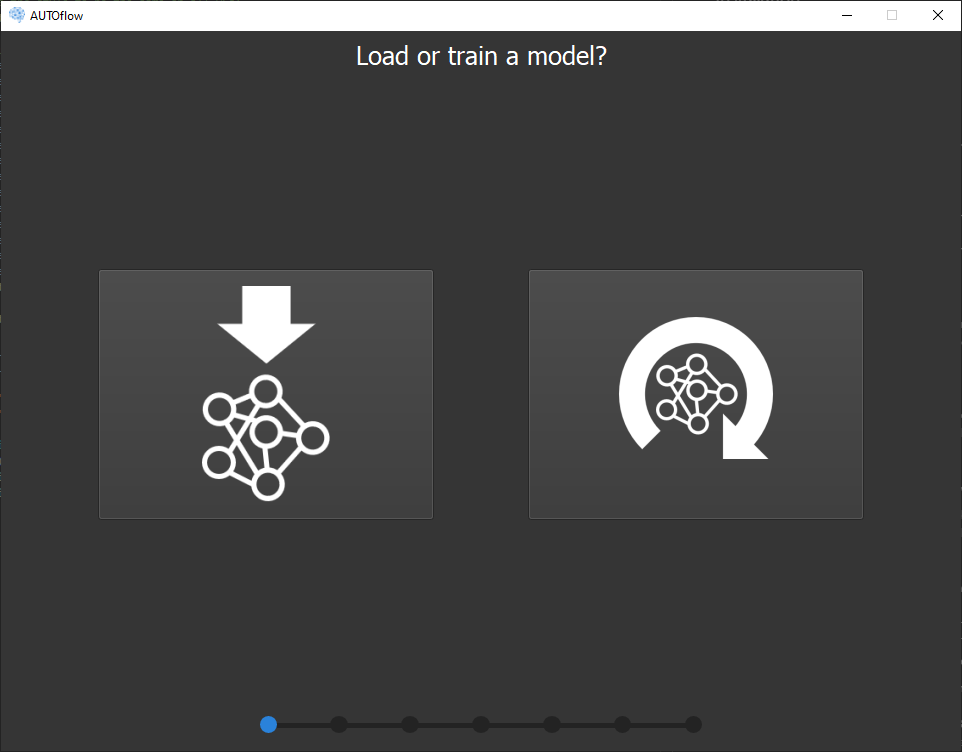
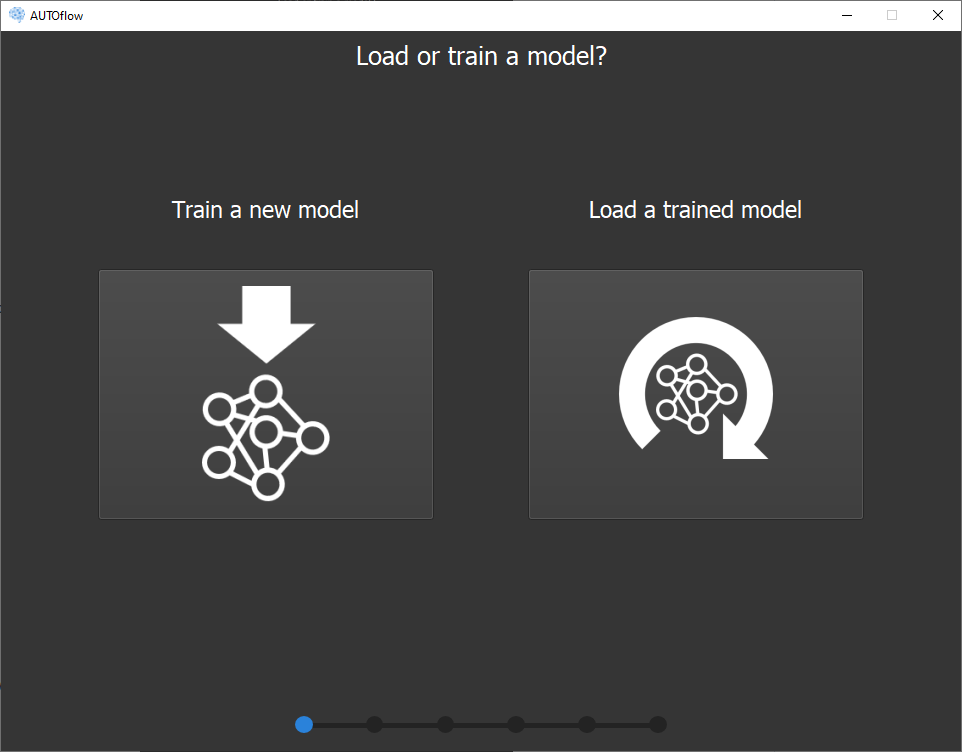
Update

diff --git a/src/AutoML/ImageClassifier.py b/src/AutoML/ImageClassifier.py
@@ -3,6 +3,7 @@
     SPDX-License-Identifier: Apache-2.0
 ============================================================================================================'''
 
+from random import shuffle
 import autokeras as ak
 import os
 import tensorflow as tf
@@ -24,14 +25,14 @@ def image_classifier(project_name, output_path, data_path, max_trials=10, max_ep
     if os.path.isfile(data_path):
         x_train, y_train, x_test, y_test = dataloader_autokeras(data_path, separator, decimal, csv_target_label,
                                                     img_height, img_width, num_channels)
-        clf.fit(x_train, y_train, epochs=max_epochs, validation_split=0.2,
+        clf.fit(x_train, y_train, epochs=max_epochs, validation_split=0.2, shuffle=True,
                 callbacks=[tf.keras.callbacks.EarlyStopping(monitor='val_loss', patience=5, restore_best_weights=True)])
         # Evaluate the best model with testing data.
         print(clf.evaluate(x_test, y_test))
     elif os.path.isdir(data_path):
         train_data, _, test_data, _ = dataloader_autokeras(data_path, separator, decimal, csv_target_label,
                                                 img_height, img_width, num_channels)
-        clf.fit(train_data, epochs=max_epochs, validation_split=0.2,
+        clf.fit(train_data, epochs=max_epochs, validation_split=0.2, shuffle=True,
                 callbacks=[tf.keras.callbacks.EarlyStopping(monitor='val_loss', patience=5, restore_best_weights=True)])
         # Evaluate the best model with testing data.
         print(clf.evaluate(test_data))

diff --git a/src/AutoML/Remove_cast_to_float32.py b/src/AutoML/Remove_cast_to_float32.py
@@ -1,18 +1,19 @@
 import sys
 
 # The file path of the environment used is passed to the function.
+# Example path: C:/Users/.../Anaconda3/envs/Autoflow
 def replace_string(path):
     # creating a variable and storing the text
     # that we want to search
-    search_text = "keras_layers.CastToFloat32()(input_node)"
+    search_text = 'keras_layers.CastToFloat32()(input_node)'
     
     # creating a variable and storing the text
     # that we want to add
-    replace_text = "input_node #" + search_text
+    replace_text = 'input_node #' + search_text
     
     # Opening our text file in read only
     # mode using the open() function
-    with open(path + "Lib/site-packages/autokeras/nodes.py", 'r') as f:
+    with open(path + '/Lib/site-packages/autokeras/nodes.py', 'r') as f:
     
         # Reading the content of the file
         # using the read() function and storing
@@ -29,15 +30,15 @@ def replace_string(path):
     
     # Opening our text file in write only
     # mode to write the replaced content
-    with open(path + "Lib/site-packages/autokeras/nodes.py", 'w') as f:
+    with open(path + '/Lib/site-packages/autokeras/nodes.py', 'w') as f:
     
         # Writing the replaced data in our
         # text file
         f.write(data)
     
     # Printing Text replaced
-    print("Text replaced")
+    print('Text replaced')
 
 
-if __name__ == "__main__":
+if __name__ == '__main__':
     replace_string(sys.argv[1])

diff --git a/src/GUIEvents/_DataloaderHelper.py b/src/GUIEvents/_DataloaderHelper.py
@@ -206,7 +206,7 @@ def dataloader_autokeras(data_loader_path, separator, decimal, csv_target_label,
                 X = np.array(df.iloc[:,:-1].values)[..., np.newaxis]
                 Y = np.array(df.iloc[:,-1].values).astype(np.int8)
 
-            x_train, x_test, y_train, y_test = train_test_split(X, Y, test_size=0.2)
+            x_train, x_test, y_train, y_test = train_test_split(X, Y, test_size=0.2, shuffle=True,)
 
         else:
             sys.path.append(os.path.dirname(data_loader_path))
@@ -234,6 +234,7 @@ def dataloader_autokeras(data_loader_path, separator, decimal, csv_target_label,
             image_size=(img_height, img_width),
             color_mode=color_mode,
             batch_size=128,
+            shuffle=True,
         )
 
         test_data = ak.image_dataset_from_directory(
@@ -244,6 +245,7 @@ def dataloader_autokeras(data_loader_path, separator, decimal, csv_target_label,
             image_size=(img_height, img_width),
             color_mode=color_mode,
             batch_size=128,
+            shuffle=True,
         )
 
         if next(iter(train_data))[0].numpy().max() > 1.0:

diff --git a/src/GUILayout/UIAutoMLData.py b/src/GUILayout/UIAutoMLData.py
@@ -23,7 +23,7 @@ class UIAutoMLData(QWidget):
         self.WINDOW_HEIGHT = WINDOW_HEIGHT
         self.FONT_STYLE = FONT_STYLE
         
-        self.project_name_label = QLabel("AutoML Projectname:")
+        self.project_name_label = QLabel("AutoML modelname:")
         self.project_name_label.setStyleSheet("font: " + str(int(0.035*self.WINDOW_HEIGHT)) + "px " + FONT_STYLE)
         
         self.project_name = QLineEdit()
@@ -68,7 +68,7 @@ class UIAutoMLData(QWidget):
         self.dataloader_list.addItems(["Select PATH with data", "Select FILE with data"])
         self.dataloader_list.setStyleSheet("font: " + str(int(0.023*self.WINDOW_HEIGHT)) + "px " + FONT_STYLE)
         
-        self.select_data_browse = QPushButton(" Select Data... ", self)
+        self.select_data_browse = QPushButton(" Select data... ", self)
         self.select_data_browse.setFixedWidth(0.2*self.WINDOW_WIDTH)
         self.select_data_browse.setFixedHeight(0.05*self.WINDOW_HEIGHT)
         self.select_data_browse.setToolTip('Select the training data which the neural network requires for the optimization.\n'

diff --git a/src/GUILayout/UIStartWindow.py b/src/GUILayout/UIStartWindow.py
@@ -24,7 +24,7 @@ class UIStartWindow(QWidget):
         self.WINDOW_HEIGHT = WINDOW_HEIGHT
         self.FONT_STYLE = FONT_STYLE
 
-        self.project_name_label = QLabel("Projectname:")
+        self.project_name_label = QLabel("Project name:")
         self.project_name_label.setStyleSheet("font: " + str(int(0.035*self.WINDOW_HEIGHT)) + "px " + FONT_STYLE)
 
         self.project_name = QLineEdit()
@@ -51,7 +51,7 @@ class UIStartWindow(QWidget):
                            color: white; 
                            border: black solid 1px}""")
 
-        self.keras_model_label = QLabel("Keras model:")
+        self.keras_model_label = QLabel("TensorFlow model:")
         self.keras_model_label.setStyleSheet("font: " + str(int(0.035*self.WINDOW_HEIGHT)) + "px " + FONT_STYLE)  
 
         self.model_png = QLabel(self)

diff --git a/src/GUILayout/UIDataloaderWindow.py b/src/GUILayout/UIDataloaderWindow.py
@@ -45,7 +45,7 @@ class UIDataloaderWindow(QWidget):
         self.dataloader_list.addItems(["Select PATH with data", "Select FILE with data"])
         self.dataloader_list.setStyleSheet("font: " + str(int(0.023*self.WINDOW_HEIGHT)) + "px " + FONT_STYLE)
         
-        self.select_data_browse = QPushButton(" Select Data... ", self)
+        self.select_data_browse = QPushButton(" Select data... ", self)
         self.select_data_browse.setFixedWidth(0.2*self.WINDOW_WIDTH)
         self.select_data_browse.setFixedHeight(0.05*self.WINDOW_HEIGHT)
         self.select_data_browse.setToolTip('Select the training data which the neural network requires for the optimization.\n'

diff --git a/src/GUILayout/UITargetWindow.py b/src/GUILayout/UITargetWindow.py
@@ -63,7 +63,7 @@ class UITargetWindow(QWidget):
         self.fpga.setFixedWidth(0.3*self.WINDOW_WIDTH)
         
         self.embedded_pc = QPushButton(self)
-        self.embedded_pc.setIcon(QIcon(os.path.join('src','GUILayout','Images', 'EmbeddedPC.svg')))
+        self.embedded_pc.setIcon(QIcon(os.path.join('src','GUILayout','Images', 'EmbeddedPC.png')))
         self.embedded_pc.setIconSize(QSize(0.8*self.WINDOW_WIDTH, 0.8*self.WINDOW_HEIGHT))
         self.embedded_pc.setToolTip('Run the TensorFlow model on an embedded PC.')
         self.embedded_pc.setStyleSheet("""QPushButton {

diff --git a/src/GUILayout/UILoadWindow.py b/src/GUILayout/UILoadWindow.py
@@ -92,7 +92,7 @@ class UILoadWindow(QWidget):
         self.summary.setFixedHeight(0.05*self.WINDOW_HEIGHT)
         self.summary.setAlignment(Qt.AlignCenter)
 
-        self.project_name_label = QLabel("Projectname: \t" + self.project_name)
+        self.project_name_label = QLabel("Project name: \t" + self.project_name)
         self.project_name_label.setStyleSheet("font: " + str(int(0.035*self.WINDOW_HEIGHT)) + "px " + FONT_STYLE)
         self.project_name_label.setFixedWidth(0.85*self.WINDOW_WIDTH)
         self.project_name_label.setFixedHeight(0.05*self.WINDOW_HEIGHT)

diff --git a/src/GUILayout/UISettingsWindow.py b/src/GUILayout/UISettingsWindow.py
@@ -39,7 +39,7 @@ class UISettingsWindow(QWidget):
         self.epochs_factor.setFixedWidth(0.10*self.WINDOW_WIDTH)
         self.epochs_factor.setFixedHeight(0.05*self.WINDOW_HEIGHT)
         
-        self.max_trials = QLabel("Max. trials:")
+        self.max_trials = QLabel("Trials:")
         self.max_trials.setStyleSheet("font: " + str(int(0.030*self.WINDOW_HEIGHT)) + "px " + FONT_STYLE)
         self.max_trials.setFixedWidth(0.20*self.WINDOW_WIDTH)
         self.max_trials.setFixedHeight(0.05*self.WINDOW_HEIGHT)

diff --git a/README.md b/README.md
@@ -38,8 +38,8 @@
 - __GUI interface:__ With this framework we offer a GUI, which should facilitate the entry into the AI as far as possible.
 - __AUTOML:__ With the help of AUTOML techniques, ML models can be generated automatically. No experience with ML is required.
 - __Automatic compression:__ Existing ML models can be automatically compressed to reduce the size of the model and speed it up.
-- __Automatic Code generation:__ The framework automatically generates code for the target platform.
-- __Different target platform:__ Afterwards the ML models can be executed on MCUs, FPGAs, Arduino, Raspberry PI etc.
+- __Automatic Code generation:__ The framework automatically generates code for executing the ML models on the target platform.
+- __Different target platform:__ Afterwards the ML models can be executed on MCUs, FPGAs, Arduino, Raspberry Pi etc.
 
 
 
@@ -55,6 +55,11 @@ sudo apt-get install pyqt5-dev-tools -y
 sudo apt-get install qttools5-dev-tools -y
 ```
 
+To ensure that AutoKeras works without errors, the script `src/AutoML/Remove_cast_to_float.py` has to be executed. The environment used is passed as the parameter. The following is an example of the execution of the script:
+```
+python src/AutoML/Remove_cast_to_float32.py C:/Users/.../Anaconda3/envs/Autoflow
+```
+
 
 ## GUI Flowchart
 
@@ -66,41 +71,81 @@ The image below shows the different steps of the AUTOflow GUI.
 
 
 ## Get Started
-To start AUTOflow, the AUTOflow.py file is executed. </br>Afterwards the fist window of the GUI will be opened. In the first window you can choose if you want to train a new model from scratch according to a database of you or if you want to use a already trained model.
+To start AUTOflow, the AUTOflow.py file is executed.</br>
+Afterwards, the first window of the GUI will be opened. The tool consists of two parts. Therefore, in the first window, you can choose which part of the AUTOflow tool you want to use. You can train a new model from scratch, by using AutoKeras, according to a database of you. The other option is to use an already trained model, optimize and convert it into a format to execute it on your target platform. If you want, you can also first train a new model from scratch and optimize and convert it afterwards for your target platform.
 
 <p align="center">
 <img src="https://github.com/Hahn-Schickard/AUTOflow/blob/main/src/GUILayout/Images/GUI_windows/GUI_window_1.PNG" width="45%" height="45%">
 </p>
 
-
-In the second window of the GUI, the project name, the output path and the neural network to be converted are passed.
+### Train model from scratch
+If you want to train a new model from scratch (left button) you will see this window next. Here the model name, the output path and the data to train the neural network are passed.
 
 <p align="center">
-<img src="https://github.com/Hahn-Schickard/AUTOflow/blob/main/src/GUILayout/Images/GUI_windows/GUI_window_2.PNG" width="45%" height="45%">
+<img src="https://github.com/Hahn-Schickard/AUTOflow/blob/main/src/GUILayout/Images/GUI_windows/GUI_window_train_2.PNG" width="45%" height="45%">
 </p>
 
 
-In the next window you can select the target you want to execute the TensorFlow model. ou can choose if you want to execute it on a microcontroller or a FPGA.
+In the next window, the task to be solved by the neural network can be selected. Four different tasks are available for selection: Image classification, Image regression, Data classification and Data regression.
 
 <p align="center">
-<img src="https://github.com/Hahn-Schickard/AUTOflow/blob/main/src/GUILayout/Images/GUI_windows/GUI_window_3.PNG" width="45%" height="45%">
+<img src="https://github.com/Hahn-Schickard/AUTOflow/blob/main/src/GUILayout/Images/GUI_windows/GUI_window_train_3.PNG" width="45%" height="45%">
+</p>
+
+
+Next, some parameters have to be passed to AutoKeras for automatic model generation. These are:
+- The number of epochs each model should be trained.
+- The number of different models that should be trained.
+- The maximum size of the models. (If this parameter is 0, there is no limit to the size of the model).
+
+If the data is passed in the form of images, the height and width of the images (number of pixels), as well as the number of color channels, have to be passed additionally. If everything is passed, the automatic model generation can be started.
+
+<p align="center">
+<img src="https://github.com/Hahn-Schickard/AUTOflow/blob/main/src/GUILayout/Images/GUI_windows/GUI_window_train_4.PNG" width="45%" height="45%">
+</p>
+
+
+In the last window of this part of the AUTOflow tool you have to wait until the automatic model generation is finished. Then you will be returned to the GUI start window.
+
+<p align="center">
+<img src="https://github.com/Hahn-Schickard/AUTOflow/blob/main/src/GUILayout/Images/GUI_windows/GUI_window_train_5.PNG" width="45%" height="45%">
+</p>
+
+
+
+### Load trained model
+If you want to use an already trained model (right button) you will see this window next. Here the project name, the output path and the neural network to be converted are passed.
+
+<p align="center">
+<img src="https://github.com/Hahn-Schickard/AUTOflow/blob/main/src/GUILayout/Images/GUI_windows/GUI_window_load_2.PNG" width="45%" height="45%">
+</p>
+
+
+In the next window you can select the target you want to execute the TensorFlow model. You can choose if you want to execute it on a microcontroller, a FPGA or an embedded PC.
+
+<p align="center">
+<img src="https://github.com/Hahn-Schickard/AUTOflow/blob/main/src/GUILayout/Images/GUI_windows/GUI_window_load_3.PNG" width="45%" height="45%">
 </p>
 
 
 In the fourth window, the optimization algorithms pruning and quantization can be selected. It is important to know that only for fully connected and convolutional layers the pruning algorithm can be applied.
 
+<p align="center">
+<img src="https://github.com/Hahn-Schickard/AUTOflow/blob/main/src/GUILayout/Images/GUI_windows/GUI_window_load_4.PNG" width="45%" height="45%">
+</p>
+
 If you select pruning, you can choose between two options:
 - Factor: For the fully connected and convolutional layers, a factor is specified in each case, which indicates the percentage of neurons or filters to be deleted from the layer.
 
 <p align="center">
-<img src="https://github.com/Hahn-Schickard/AUTOflow/blob/main/src/GUILayout/Images/GUI_windows/GUI_window_4a.PNG" width="45%" height="45%">
+<img src="https://github.com/Hahn-Schickard/AUTOflow/blob/main/src/GUILayout/Images/GUI_windows/GUI_window_load_4a.PNG" width="45%" height="45%">
 </p>
 
 - Accuracy: The minimum accuracy of the neural network or the loss of accuracy that may result from pruning can be specified here.
 
 <p align="center">
-<img src="https://github.com/Hahn-Schickard/AUTOflow/blob/main/src/GUILayout/Images/GUI_windows/GUI_window_4b.PNG" width="45%" height="45%">
-<img src="https://github.com/Hahn-Schickard/AUTOflow/blob/main/src/GUILayout/Images/GUI_windows/GUI_window_4c.PNG" width="45%" height="45%">
+<img src="https://github.com/Hahn-Schickard/AUTOflow/blob/main/src/GUILayout/Images/GUI_windows/GUI_window_load_4b.PNG" width="45%" height="45%">
+<img src="https://github.com/Hahn-Schickard/AUTOflow/blob/main/src/GUILayout/Images/GUI_windows/GUI_window_load_4c.PNG" width="45%" height="45%">
 </p>
 
 If quantization is selected, you can choose between two options:
@@ -108,35 +153,36 @@ If quantization is selected, you can choose between two options:
 - int8 only: All weights get converted to int8 values. Also the input and output will be converted to 8-bit integer. When executing the net later, the input values of the model must be passed as signed int8 values. Also the output values are returned as signed int8 values.
 
 <p align="center">
-<img src="https://github.com/Hahn-Schickard/AUTOflow/blob/main/src/GUILayout/Images/GUI_windows/GUI_window_4d.PNG" width="45%" height="45%">
+<img src="https://github.com/Hahn-Schickard/AUTOflow/blob/main/src/GUILayout/Images/GUI_windows/GUI_window_load_4d.PNG" width="45%" height="45%">
 </p>
 
 
 The next window appears only if at least one optimization algorithm has been selected. In this window the training data are selected which the neural network requires for the optimization. The data can be transferred in different ways:
 - Path: Images are to be used as training data. In the given path there are subfolders containing the name of the different classes of the neural network and the corresponding images.
-- File (CSV file): The data is stored in a CSV file. An example of how such a file can look like can be found [here](https://github.com/Hahn-Schickard/AUTOflow/blob/main/Example/Input_data/Datenvorverarbeitung_EMNIST.py).
+- File (CSV file): The data is stored in a CSV file. An example of how such a file can look like can be found [here](https://github.com/Hahn-Schickard/AUTOflow/blob/main/Example/Input_data/Datenvorverarbeitung_MNIST.py).
 - File (Python file): The data is loaded and returned in a Python script. Here it is important that the Python script contains the function get_data() with the return values x_train, y_train, x_test, y_test (training data, training label, test data, test label). The return values here are Numpy arrays.
 
 <p align="center">
-<img src="https://github.com/Hahn-Schickard/AUTOflow/blob/main/src/GUILayout/Images/GUI_windows/GUI_window_5.PNG" width="45%" height="45%">
+<img src="https://github.com/Hahn-Schickard/AUTOflow/blob/main/src/GUILayout/Images/GUI_windows/GUI_window_load_5.PNG" width="45%" height="45%">
 </p>
 
 If a CSV file is selected the CSV dataloader window opens. With the browse button a new CSV file can be selected again. By using the different separators, it is possible to define how the data is separated. The Preview button shows an overview of how the data will look with the selected settings. In addition, the label of each data series must be specified. Here it is possible to set the label to the first or the last position of a data series. In addition, the number of rows and columns in the data set is displayed. If all settings are correct, the settings can be taken over for the later optimization via the button Load data.
 
 <p align="center">
-<img src="https://github.com/Hahn-Schickard/AUTOflow/blob/main/src/GUILayout/Images/GUI_windows/GUI_window_5a.PNG" width="45%" height="45%">
+<img src="https://github.com/Hahn-Schickard/AUTOflow/blob/main/src/GUILayout/Images/GUI_windows/GUI_window_load_5a.PNG" width="45%" height="45%">
 </p>
 
 
-At the end the amount of memory for the input, output, and intermediate arrays of the neural network on the device must be specified. In addition, an overview of all selected parameters is displayed here. The button in the lower right corner starts the process of the conversion.
+At the end, if you want to execute the TensorFlow model on a microcontroller you have to specify the amount of memory for the input, output, and intermediate arrays of the neural network on the microcontroller. If you select another device, you don't have to do that. In addition, an overview of all selected parameters is displayed here. The button in the lower right corner starts the process of the conversion.
 
 <p align="center">
-<img src="https://github.com/Hahn-Schickard/AUTOflow/blob/main/src/GUILayout/Images/GUI_windows/GUI_window_6.PNG" width="45%" height="45%">
+<img src="https://github.com/Hahn-Schickard/AUTOflow/blob/main/src/GUILayout/Images/GUI_windows/GUI_window_load_6a.PNG" width="45%" height="45%">
 </p>
 
 
 
 ## Upcoming
+Improvement of automated neural network generation.<br>
 It is planned to release the toolkit in the future not only as a GUI but also as a library.
 
 
